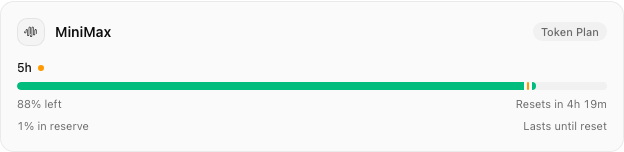
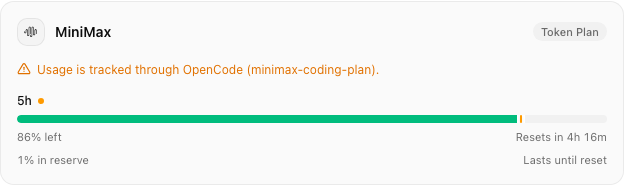
docs(pr): note that MiniMax usage is tracked through OpenCode
The MiniMax card now carries an informational notice on the card itself
(rendered via the existing usage-notice mechanism) explaining that usage
is tracked through OpenCode (minimax-coding-plan), since MiniMax has no
standalone Synara CLI.

diff --git a/apps/server/src/providerUsage/providers/minimax.test.ts b/apps/server/src/providerUsage/providers/minimax.test.ts
@@ -220,6 +220,7 @@ describe("minimaxUsageFetcher", () => {
     const snapshot = await minimaxUsageFetcher.fetch(makeCtx(dir));
     expect(snapshot.status).toBe("ok");
     expect(snapshot.planName).toBe("Token Plan");
+    expect(snapshot.detail).toBe("Usage is tracked through OpenCode (minimax-coding-plan).");
     expect(snapshot.limits).toHaveLength(1);
     expect(calledUrls).toHaveLength(1);
   });

diff --git a/apps/server/src/providerUsage/providers/minimax.ts b/apps/server/src/providerUsage/providers/minimax.ts
@@ -286,6 +286,7 @@ export const minimaxUsageFetcher: ProviderUsageFetcher = {
       source: SOURCE,
       ...(planName ? { planName } : {}),
       limits,
+      detail: "Usage is tracked through OpenCode (minimax-coding-plan).",
     });
   },
 };
